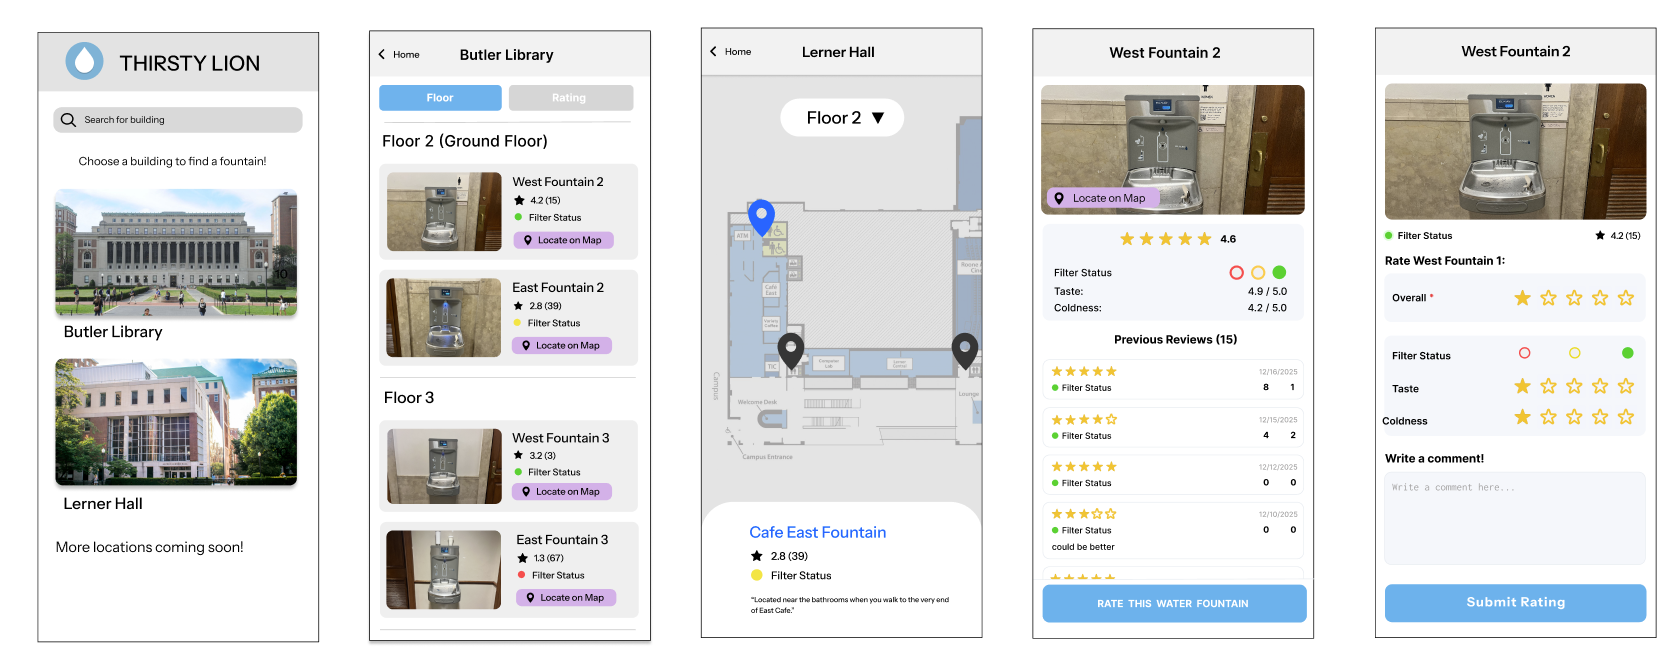
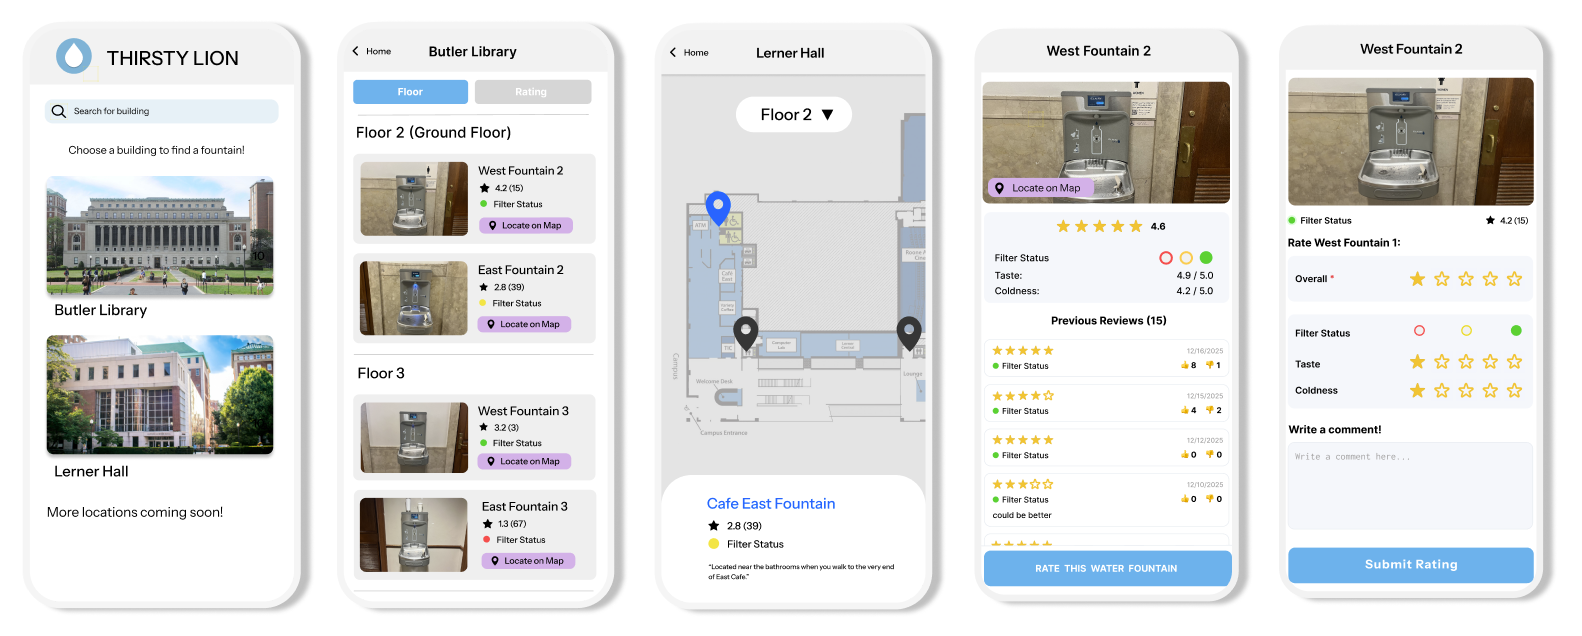
fixed thirstylion copy and added new high fid mockup image

diff --git a/src/Alterea2.js b/src/Alterea2.js
@@ -174,13 +174,19 @@ function AgentsOfInfluence() {
           <div className="section-label">BETA TESTING</div>
 
           <h2 className="aoi-beta-intro">
-            Alterea was in the stage of preparing the game to send out to teachers for beta
-            testing. I played through each of the games and synthesized a list of unclear
-            points and provided UX solutions for each point.
+            Conducted end-to-end game evaluations, identifying usability gaps and delivering UX recommendations to improve player experience.
+            
+            
           </h2>
 
           <p className="aoi-beta-subintro">
-            Below I compiled samples of my work for the following games. In addition to
+
+            As Alterea prepared the game for teacher beta testing, 
+            I evaluated each game end-to-end to uncover friction 
+            points and unclear interactions. I translated these insights 
+            into targeted UX improvements to enhance clarity, usability, and player engagement.
+            <br/><br/>
+            Below, I compiled samples of my work for the following games. In addition to
             pointing out potential points of confusion, I also helped track and identify
             reproducible bugs and glitches. For UI confusions that would not be fixable prior
             to the teacher launch deadline, I noted them down so I could clarify it in the
@@ -280,8 +286,8 @@ function AgentsOfInfluence() {
                   <h4>Player confusion</h4>
                   <p>
                     Players alternate between reading dialogue and asking questions. 
-                    During the section with questions, the dialogue arrow remains on the screen.
-                    This can confuse players into thinking that there is more dialogue to read 
+                    During the section with questions, the dialogue arrow remained on the screen.
+                    This could confuse players into thinking that there is more dialogue to read 
                     before answering the question.
                   </p>
                   <p>

diff --git a/src/Miai2.js b/src/Miai2.js
@@ -457,10 +457,9 @@ export default function MiaiVideogameProject() {
               to all 4 suspects or just 1 suspect. In order to highlight the AIC
               who is replying, I suggested that the Inquisitor (INQ) be moved to
               the side and the AIC who is responding to be shown on the larger
-              screen. In order to accommodate the large amount of text with the
-              addition of the inquisitor image, I added scroll bars to the
-              incident summary and suspect profiles which allows them to access the
-              relevant part of the text at any time.
+              screen. To accommodate the large amount of text, I added scroll bars to the
+              incident summary and suspect profiles to allow players to access relevant
+              text at any time.
             </p>
             <p>
               I also added a visual sliding timer above the typing box so that the user

diff --git a/src/Savo.js b/src/Savo.js
@@ -122,11 +122,11 @@ const SavoHealthProject = () => {
             I conducted 60+ cold calls to diabetes prevention programs based in NY
             and completed 30–40 minute interviews with DPP leadership and staff to
             gain a comprehensive understanding of the logistics and difficulties of
-            providing the program and which features would be most valuable in an MVP. 
+            providing the DPP program. This research helped me determine which features would be most valuable in Savo's MVP. 
           </p>
 
           <SavoTimeline />
-          
+
           <p>
             At the end of my internship, I synthesized my findings and submitted a deliverable with analysis of
             the interviews and product direction suggestions. As a result of my
